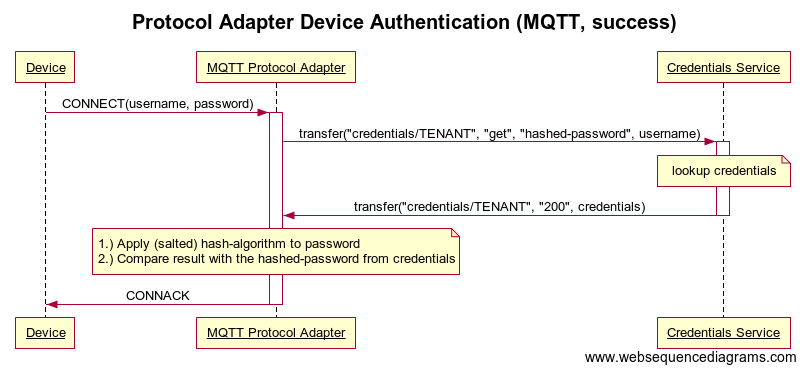
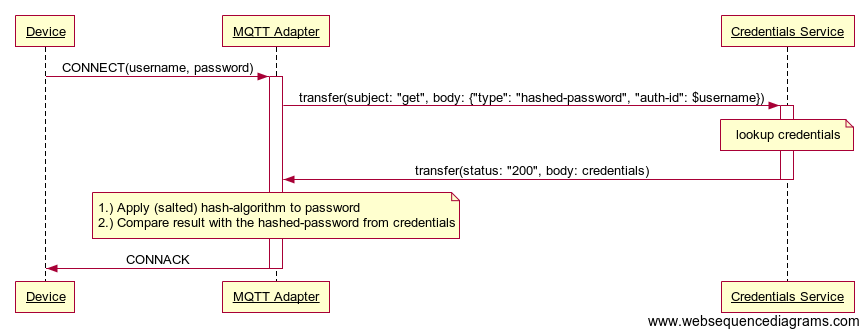
[#1270] Remove optional operations from Credentials API spec.
Also remove obsolete properties from request and response messages.

Changed region(s): [[0.0, 0.0298, 0.9938, 0.9524], [0.7143, 0.8333, 0.9938, 0.9821]]

diff --git a/site/content/api/Credentials-API.md b/site/content/api/Credentials-API.md
@@ -3,60 +3,50 @@ title = "Credentials API"
 weight = 430
 +++
 
-Eclipse Hono&trade;'s *Credentials API* is used by *Protocol Adapters* to retrieve credentials used to authenticate *Devices* connecting to the adapter. In particular, the API supports the storage, look up and deletion of *shared secrets* which are often used by IoT devices by means of *username/password* based authentication schemes.
+The *Credentials API* is used by *Protocol Adapters* to retrieve credentials used to authenticate *Devices* connecting to the adapter. In particular, the API supports the look up *shared secrets* which are often used by IoT devices by means of *username/password* based authentication schemes.
 <!--more-->
 
-Credentials are of a certain *type* which indicates which authentication mechanism the credentials can be used with. Each set of credentials also contains an *authentication identity* which is the identity claimed by the device during authentication. This authentication identity is usually different from the *device-id* the device has been registered with using Hono's [Device Registration API]({{< relref "api/Device-Registration-API.md" >}}). Multiple sets of credentials (including arbitrary *authentication identities*) can be registered for each *device-id*.
-
-Note, however, that in real world applications the device credentials will probably be kept and managed by an existing *system of record*, using e.g. a database for persisting the credentials. The Credential API accounts for this fact by means of defining only the [Get Credentials]({{< relref "#get-credentials" >}}) operation as *mandatory*, meaning that this operation is strictly required by a Hono instance for it to work properly. The remaining operations are defined as *optional* from Hono's perspective.
+Credentials are of a certain *type* which indicates which authentication mechanism the credentials can be used with. Each set of credentials also contains an *authentication identity* which is the identity claimed by the device during authentication. This authentication identity is usually different from the *device-id* the device has been registered under. A device may have multiple sets of credentials, using arbitrary *authentication identities*.
 
 The Credentials API is defined by means of AMQP 1.0 message exchanges, i.e. a client needs to connect to Hono using an AMQP 1.0 client in order to invoke operations of the API as described in the following sections.
 
-## Preconditions
+<a name="preconditions"></a>
+## Preconditions for invoking the Credentials API
 
-The preconditions for invoking any of the Credential API's operations are as follows:
+1. Client has established an AMQP connection with the Credentials service.
+2. Client has established an AMQP link in role *sender* on the connection using target address `credentials/${tenant_id}`. This link is used by the client to send commands to the Credentials service.
+3. Client has established an AMQP link in role *receiver* on the connection using source address `credentials/${tenant_id}/${reply-to}` where *reply-to* may be any arbitrary string chosen by the client. This link is used by the client to receive responses to the requests it has sent to the Credentials service. This link's source address is also referred to as the *reply-to* address for the request messages.
 
-1. Client has established an AMQP connection to Hono.
-2. Client has established an AMQP link in role *sender* with Hono using target address `credentials/${tenant_id}`. This link is used by the client to send commands to Hono.
-3. Client has established an AMQP link in role *receiver* with Hono using source address `credentials/${tenant_id}/${reply-to}` where *reply-to* may be any arbitrary string chosen by the client. This link is used by the client to receive responses to the requests it has sent to Hono. This link's source address is also referred to as the *reply-to* address for the request messages.
+{{< figure src="../connectToCredentials.png" alt="A client establishes an AMQP connection and the links required to invoke operations of the Credentials service" title="Client connecting to Credentials service" >}}
 
-The flow of messages for creating the links is illustrated by the following sequence diagram (showing the AMQP performatives):
-
-![Credentials message flow preconditions](../connectToCredentials.png)
-
-## Mandatory Operations 
-
-The operations described in the following sections are invoked by Hono's components during run time and are therefore mandatory to implement.
-
-### Get Credentials
+## Get Credentials
 
 Protocol adapters use this command to *look up* credentials of a particular type for a device identity.
 
-This operation is *mandatory* to implement.
-
 **Message Flow**
 
-The following sequence diagram illustrates the flow of messages involved in a *Client* retrieving credentials.
-
-![Get Credentials message flow](../getCredentials_Success.png)
+{{< figure src="../getCredentials_Success.png" title="Client looking up credentials for a device" alt="A client sends a request message for looking up device credentials and receives a response containing the credentials" >}}
 
 
 **Request Message Format**
 
-The following table provides an overview of the properties a client needs to set on an *get credentials* message in addition to the [Standard Request Properties]({{< relref "#standard-request-properties" >}}).
+The following table provides an overview of the properties a client needs to set on an *get credentials* message.
 
-| Name             | Mandatory | Location                 | AMQP Type | Description                   |
-| :--------------- | :-------: | :----------------------- | :-------- | :---------------------------- |
-| *subject*        | yes       | *properties*             | *string*  | MUST contain the value `get`. |
+| Name             | Mandatory | Location                 | AMQP Type    | Description                   |
+| :--------------- | :-------: | :----------------------- | :----------- | :---------------------------- |
+| *correlation-id* | no        | *properties*             | *message-id* | MAY contain an ID used to correlate a response message to the original request. If set, it is used as the *correlation-id* property in the response, otherwise the value of the *message-id* property is used. Either this or the *message-id* property MUST be set. |
+| *message-id*     | no        | *properties*             | *string*     | MAY contain an identifier that uniquely identifies the message at the sender side. Either this or the *correlation-id* property MUST be set. |
+| *reply-to*       | yes       | *properties*             | *string*     | MUST contain the source address that the client wants to receive response messages from. This address MUST be the same as the source address used for establishing the client's receive link (see [Preconditions]({{< relref "#preconditions" >}})). |
+| *subject*        | yes       | *properties*             | *string*     | MUST contain the value `get`. |
 
 The body of the request MUST consist of a single *Data* section containing a UTF-8 encoded string representation of a single JSON object having the following members:
 
 | Name             | Mandatory | JSON Type  | Description |
 | :--------------- | :-------: | :--------- | :---------- |
-| *type*           | *yes*     | *string*   | The type of credentials to look up. Potential values include (but are not limited to) `psk`, `RawPublicKey`, `hashed-password` etc. |
+| *type*           | *yes*     | *string*   | The type of credentials to look up. Potential values include (but are not limited to) `psk`, `x509-cert`, `hashed-password` etc. |
 | *auth-id*        | *yes*     | *string*   | The authentication identifier to look up credentials for. |
 
-Additionally, the body can contain arbitrary array of properties that service implementations can use to determine device identity.
+Additionally, the body MAY contain arbitrary properties that service implementations can use to determine a device's identity.
 
 The following request payload may be used to look up the hashed password for a device with the authentication identifier `sensor1`:
 
@@ -69,7 +59,15 @@ The following request payload may be used to look up the hashed password for a d
 
 **Response Message Format**
 
-A response to a *get credentials* request contains the [Standard Response Properties]({{< relref "#standard-response-properties" >}}).
+A response to a *get credentials* request contains the following properties:
+
+| Name             | Mandatory | Location                 | AMQP Type    | Description |
+| :--------------- | :-------: | :----------------------- | :----------- | :---------- |
+| *correlation-id* | yes       | *properties*             | *message-id* | Contains the *message-id* (or the *correlation-id*, if specified) of the request message that this message is the response to. |
+| *content-type*   | no        | *properties*             | *string*     | MUST be set to `application/json` if the invocation of the operation was successful and the body of the response message contains payload as described below. |
+| *status*         | yes       | *application-properties* | *int*        | Contains the status code indicating the outcome of the operation. Concrete values and their semantics are defined below. |
+| *cache_control*  | no        | *application-properties* | *string*     | Contains an [RFC 2616](https://tools.ietf.org/html/rfc2616#section-14.9) compliant <em>cache directive</em>. The directive contained in the property MUST be obeyed by clients that are caching responses. |
+
 
 The response message payload MUST contain credential information as defined in [Credentials Format]({{< relref "#credentials-format" >}}) if the *status* is `200`.
 
@@ -78,208 +76,33 @@ The response message's *status* property may contain the following codes:
 | Code  | Description |
 | :---- | :---------- |
 | *200* | OK, the payload contains the credentials for the authentication identifier. |
+| *400* | Bad Request, the request message did not contain all mandatory properties.
 | *404* | Not Found, there are no credentials registered matching the criteria. |
 
 For status codes indicating an error (codes in the `400 - 499` range) the message body MAY contain a detailed description of the error that occurred.
-
-
-## Optional Operations
-
-The operations described in the following sections can be used by clients to manage credentials for authenticating devices connected to protocol adapters.
-
-All operations are scoped to the *tenant* specified by the `${tenant_id}` parameter during link establishment. It is therefore not possible to e.g. retrieve credentials for devices of `TENANT_B` if the link has been established for target address `credentials/TENANT_A`.
-
-Hono's components do not invoke any of the operations in this section. Therefore, these operations are *optional* to implement.
-
-{{% warning title="Deprecated" %}}
-All of the optional operation have been deprecated as of 1.0-M2 and will be removed in Hono 1.0.
-Functionality for *managing* the content of a device registry will be defined by means of an HTTP based
-API that will be specified as part of Hono 1.0.
-{{% /warning %}}
-
-### Add Credentials
-
-Clients may use this command to initially *add* credentials for a device. The credentials to be added may be of arbitrary type. However, [Standard Credential Types]({{< relref "#standard-credential-types" >}}) contains an overview of some common types that are used by Hono's protocol adapters and which may be useful to others as well.
-
-This operation is *optional*, implementors of this API may provide other means for adding credential information, e.g. a RESTful API or a configuration file.
-
-*Optional check* : Implementors of this API may check first if the device has already been registered with Hono and respond with a non successful error code (see Response Message Format below) if the device was not found.
-This check is not mandatory and for some scenarios it might be desired to provide credentials for devices that are registered later (e.g. devices provisioned with pre-shared keys that are registered during their first time being connected to Hono).
-
-**Message Flow**
-
-The following sequence diagram illustrates the flow of messages involved in a *Client* adding credentials.
-
-![Add Credentials message flow](../addCredentials_Success.png)
-
-**Request Message Format**
-
-The following table provides an overview of the properties a client needs to set on an *add credentials* message in addition to the [Standard Request Properties]({{< relref "#standard-request-properties" >}}).
-
-| Name             | Mandatory | Location                 | AMQP Type | Description                         |
-| :--------------- | :-------: | :----------------------- | :-------- | :---------------------------------- |
-| *subject*        | yes       | *properties*             | *string*  | MUST contain the value `add`.      |
-
-The request message payload MUST contain credential information as defined in [Credentials Format]({{< relref "#credentials-format" >}}).
-
-**Response Message Format**
-
-A response to an *add credentials* request contains the [Standard Response Properties]({{< relref "#standard-response-properties" >}}).
-
-The response message's body is empty. 
-
-The response message's *status* property may contain the following codes:
-
-| Code  | Description |
-| :---- | :---------- |
-| *201* | Created, the credentials have been added successfully. |
-| *409* | Conflict, there already exist credentials of the given *type* for the given *auth-id*. |
-| *412* | Precondition Failed, there is no device registered with the given *device-id* within the tenant. **NB** This status is only used when the implementation checks the registration of the device (see optional check in [Add Credentials description]({{< relref "#add-credentials" >}})).|
-
-For status codes indicating an error (codes in the `400 - 499` range) the message body MAY contain a detailed description of the error that occurred.
-
-### Update Credentials
-
-Clients use this command to *update* existing credentials registered for a device. All of the information that has been previously registered for the device gets *replaced* with the information contained in the request message.
-
-This operation is *optional*, implementors of this API may provide other means for updating credential information, e.g. a RESTful API or a configuration file.
-
-**Message Flow**
-
-The following sequence diagram illustrates the flow of messages involved in a *Client* updating existing credentials.
-
-![Update existing Credentials message flow](../updateCredentials_Success.png)
-
-
-**Request Message Format**
-
-The following table provides an overview of the properties a client needs to set on an *update credentials* message in addition to the [Standard Request Properties]({{< relref "#standard-request-properties" >}}).
-
-| Name             | Mandatory | Location                 | AMQP Type | Description |
-| :--------------- | :-------: | :----------------------- | :-------- | :---------- |
-| *subject*        | yes       | *properties*             | *string*  | MUST contain the value `update`. |
-
-The request message payload MUST contain credential information as defined in [Credentials Format]({{< relref "#credentials-format" >}}).
-
-**Response Message Format**
-
-A response to an *update credentials* request contains the [Standard Response Properties]({{< relref "#standard-response-properties" >}}).
-
-The response message's body is empty. 
-
-The response message's *status* property may contain the following codes:
-
-| Code  | Description |
-| :---- | :---------- |
-| *204* | No Content, the credentials have been updated successfully. |
-| *404* | Not Found, there are no credentials registered matching the criteria from the payload. |
-
-For status codes indicating an error (codes in the `400 - 499` range) the message body MAY contain a detailed description of the error that occurred.
-
-### Remove Credentials
-
-Clients use this command to *remove* credentials registered for a device. Once the credentials are removed, the device may no longer be able to authenticate with protocol adapters using the authentication mechanism that the removed credentials corresponded to.
-
-This operation is *optional*, implementors of this API may provide other means for removing credential information, e.g. a RESTful API or a configuration file.
-
-**Message Flow**
-
-The following sequence diagram illustrates the flow of messages involved in a *Client* removing existing credentials.
-
-![Remove existing Credentials message flow](../removeCredentials_Success.png)
-
-**Request Message Format**
-
-The following table provides an overview of the properties a client needs to set on a *remove credentials* message in addition to the [Standard Request Properties]({{< relref "#standard-request-properties" >}}).
-
-| Name             | Mandatory | Location                 | AMQP Type | Description |
-| :--------------- | :-------: | :----------------------- | :-------- | :---------- |
-| *subject*        | yes       | *properties*             | *string*  | MUST contain the value `remove`. |
-
-The body of the message MUST consist of a single *Data* section containing a UTF-8 encoded string representation of a single JSON object having the following properties:
-
-| Name             | Mandatory | JSON Type  | Description |
-| :--------------- | :-------: | :--------- | :---------- |
-| *device-id*      | *yes*     | *string*   | The ID of the device from which the credentials should be removed. |
-| *type*           | *yes*     | *string*   | The type of credentials to remove. If set to `*` then all credentials of the device are removed (*auth-id* is ignored), otherwise only the credentials matching the *type* and *auth-id* are removed. |
-| *auth-id*        | *no*      | *string*   | The authentication identifier of the credentials to remove. If omitted, then all credentials of the specified *type* are removed. |
-
-The following JSON can be used to remove all `hashed-password` credentials of device `4711`:
-
-~~~json
-{
-  "device-id": "4711",
-  "type": "hashed-password"
-}
-~~~
-
-**Response Message Format**
-
-A response to a *remove credentials* request contains the [Standard Response Properties]({{< relref "#standard-response-properties" >}}).
-
-The response message's body is empty.
-
-The response message's *status* property may contain the following codes:
-
-| Code  | Description |
-| :---- | :---------- |
-| *204* | No Content, the credentials have been removed successfully. |
-| *404* | Not Found, there are no credentials registered matching the criteria given in the request payload. |
-
-For status codes indicating an error (codes in the `400 - 499` range) the message body MAY contain a detailed description of the error that occurred.
-
-## Standard Message Properties
-
-Due to the nature of the request/response message pattern of the operations of the Credentials API, there are some standard properties shared by all of the request and response messages exchanged as part of the operations.
-
-#### Standard Request Properties
-
-The following table provides an overview of the properties shared by all request messages regardless of the particular operation being invoked.
-
-| Name             | Mandatory | Location                 | AMQP Type   | Description |
-| :--------------- | :-------: | :----------------------- | :---------- | :---------- |
-| *subject*        | yes       | *properties*             | *string*    | MUST be set to the value defined by the particular operation being invoked. |
-| *correlation-id* | no        | *properties*             | *message-id | MAY contain an ID used to correlate a response message to the original request. If set, it is used as the *correlation-id* property in the response, otherwise the value of the *message-id* property is used. |
-| *message-id*     | yes       | *properties*             | *string*    | MUST contain an identifier that uniquely identifies the message at the sender side. |
-| *reply-to*       | yes       | *properties*             | *string*    | MUST contain the source address that the client wants to received response messages from. This address MUST be the same as the source address used for establishing the client's receive link (see [Preconditions]({{< relref "#Preconditions" >}})). |
-| *content-type*   | yes       | *properties*             | *string*     | MUST be set to `application/json`. |
-
-#### Standard Response Properties
-
-The following table provides an overview of the properties shared by all response messages regardless of the particular operation being invoked.
-
-| Name             | Mandatory | Location                 | AMQP Type    | Description |
-| :--------------- | :-------: | :----------------------- | :----------- | :---------- |
-| *correlation-id* | yes       | *properties*             | *message-id* | Contains the *message-id* (or the *correlation-id*, if specified) of the request message that this message is the response to. |
-| *content-type*   | yes       | *properties*             | *string*     | MUST be set to `application/json`. |
-| *device_id*      | yes       | *application-properties* | *string*     | Contains the ID of the device. |
-| *tenant_id*      | yes       | *application-properties* | *string*     | Contains the ID of the tenant to which the device belongs. |
-| *status*         | yes       | *application-properties* | *int*        | Contains the status code indicating the outcome of the operation. Concrete values and their semantics are defined for each particular operation. |
-| *cache_control*  | no        | *application-properties* | *string*     | Contains an [RFC 2616](https://tools.ietf.org/html/rfc2616#section-14.9) compliant <em>cache directive</em>. The directive contained in the property MUST be obeyed by clients that are caching responses. |
+In this case, the response message's *content-type* property SHOULD be set accordingly.
 
 ## Delivery States
 
-Hono uses the following AMQP message delivery states when receiving request messages from clients:
+The Credentials service uses the following AMQP message delivery states when receiving request messages from clients:
 
 | Delivery State | Description |
 | :------------- | :---------- |
-| *ACCEPTED*     | Indicates that Hono has successfully received and accepted the request for processing. |
-| *REJECTED*     | Indicates that Hono has received the request but was not able to process it. The *error* field contains information regarding the reason why. Clients should not try to re-send the request using the same message properties in this case. |
+| *ACCEPTED*     | Indicates that the request message has been received and accepted for processing. |
+| *REJECTED*     | Indicates that the request message has been received but cannot be processed. The disposition frame's *error* field contains information regarding the reason why. Clients should not try to re-send the request using the same message properties in this case. |
 
 ## Credentials Format
 
-Most of the operations of the Credentials API allow or require the inclusion of credential data in the payload of the
-request or response messages of the operation. Such payload is carried in the body of the corresponding AMQP 
-messages as part of a single *Data* section. The content type must be set to `application/json`. 
+Credential data is carried in the body of an AMQP message as part of a single *Data* section. The message's *content-type* property must be set to `application/json`.
 
-The credential data is carried in the payload as a UTF-8 encoded string representation of a single JSON object. It is an error to include payload that is not of this type.
+The credential data is contained in the Data section as a UTF-8 encoded string representation of a single JSON object. It is an error to include payload that is not of this type.
 
 The table below provides an overview of the standard members defined for the JSON object:
 
 | Name             | Mandatory | JSON Type  | Default Value | Description |
 | :--------------- | :-------: | :--------- | :------------ | :---------- |
 | *device-id*      | *yes*     | *string*   |               | The ID of the device to which the credentials belong. |
-| *type*           | *yes*     | *string*   |               | The credential type name. The value may be arbitrarily chosen by clients but SHOULD reflect the particular type of authentication mechanism the credentials are to be used with. Possible values include (but are not limited to) `psk`, `RawPublicKey`, `hashed-password` etc. |
+| *type*           | *yes*     | *string*   |               | The credential type name. The value may be arbitrarily chosen by clients but SHOULD reflect the particular type of authentication mechanism the credentials are to be used with. Possible values include (but are not limited to) `psk`, `x509-cert`, `hashed-password` etc. |
 | *auth-id*        | *yes*     | *string*   |               | The identity that the device should be authenticated as. |
 | *enabled*        | *no*      | *boolean*  | *true*        | If set to *false* the credentials are not supposed to be used to authenticate devices any longer. This may e.g. be used to disable a particular mechanism for authenticating the device. **NB** It is the responsibility of the protocol adapter to make use of this information. |
 | *secrets*        | *yes*     | *array*    |               | A list of secrets scoped to a particular time period. See [Secrets Format]({{< relref "#secrets-format" >}}) for details. **NB** This array must contain at least one element - an empty array is considered an error. |
@@ -318,7 +141,7 @@ Below is an example for a payload containing [a hashed password]({{< relref "#ha
 }
 ~~~
 
-The next example contains two [pre-shared secrets]({{< relref "#pre-shared-key" >}}) with overlapping validity periods for device `myDevice` with PSK identity `little-sensor2`.
+The next example contains two [pre-shared keys]({{< relref "#pre-shared-key" >}}) with overlapping validity periods for device `myDevice` with PSK identity `little-sensor2`.
 
 ~~~json
 {
@@ -344,15 +167,15 @@ The following sequence diagram illustrates the flow of messages involved in a *P
 This is shown for the *MQTT Protocol Adapter* as example how a device authenticates with a username and a hashed-password.
 The mechanism can be transferred to other protocols in a similar manner.
 
-![Protocol Adapter authenticating Devices message flow](../protocolAdapterDeviceAuthentication_Success.png)
+{{< figure src="../protocolAdapterDeviceAuthentication_Success.png" title="MQTT Adapter authenticates device using the Credentials service" alt="The MQTT Adapter sends a request message for looking up credentials presented by a device and receives a response containing the credentials for verification" >}}
 
-Retrieved credentials have to be verified by the *Protocol Adapter*:
+Protocol adapters MUST comply with the following rules when verifying credentials presented by a device:
 
-* credentials that have their `enabled` property set to `false` MUST NOT be used for authenticating a device
-* the adapter MUST only use `secrets` for authentication which have
+* Credentials that have their *enabled* property set to `false` MUST NOT be used for authentication.
+* Adapters MUST only consider secrets for authentication which
 
-   * their `not-before` property set to either `null` or the current or a past point in time **and**
-   * their `not-after` property set to either `null` or the current or a future point in time.
+   * have their *not-before* property set to either `null` or the current or a past point in time **and**
+   * have their *not-after* property set to either `null` or the current or a future point in time.
 
 ## Standard Credential Types
 

diff --git a/site/content/release-notes.md b/site/content/release-notes.md
@@ -32,6 +32,12 @@ title = "Release Notes"
   the operation is invoked.
 * The methods for invoking the optional operations of the Device Registration API have been removed
   from `org.eclipse.hono.client.RegistrationClient` and `org.eclipse.hono.client.impl.RegistrationClientImpl`.
+* The optional methods of the [Credentials API]({{< ref "/api/Credentials-API.md" >}}) have been removed.
+  Implementations of the Credentials API are encouraged to expose the *credentials* endpoint defined by
+  [Hono's HTTP based management API](https://eclipse.org/hono/api/device-registry-v1.yaml) instead.
+  Several of the formerly mandatory to include properties of the request and response messages have
+  been made optional or removed altogether. Existing clients should not be affected by these changes, though.
+
 
 ## 1.0-M4
 
